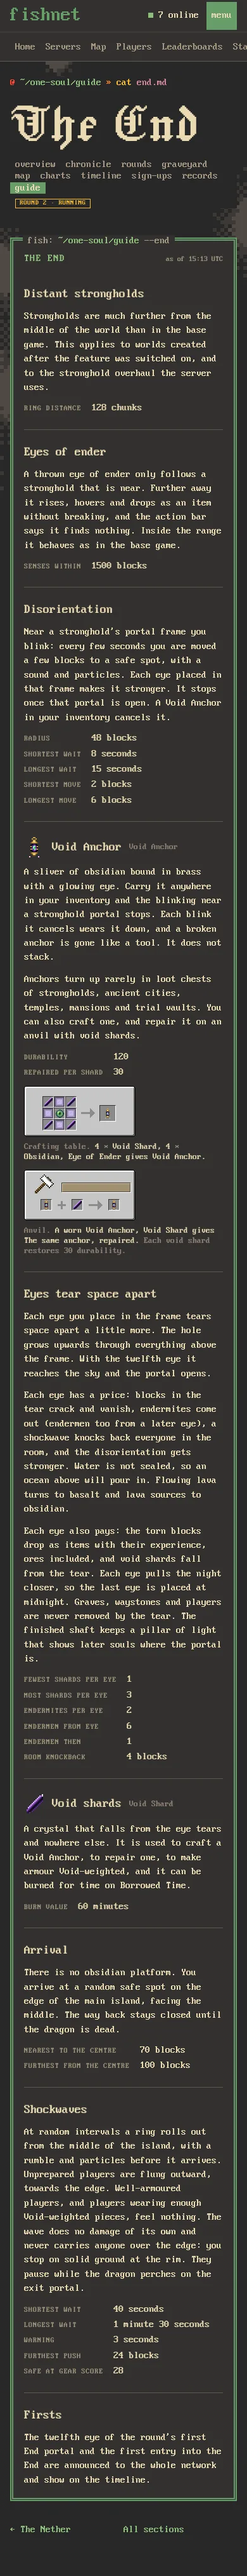
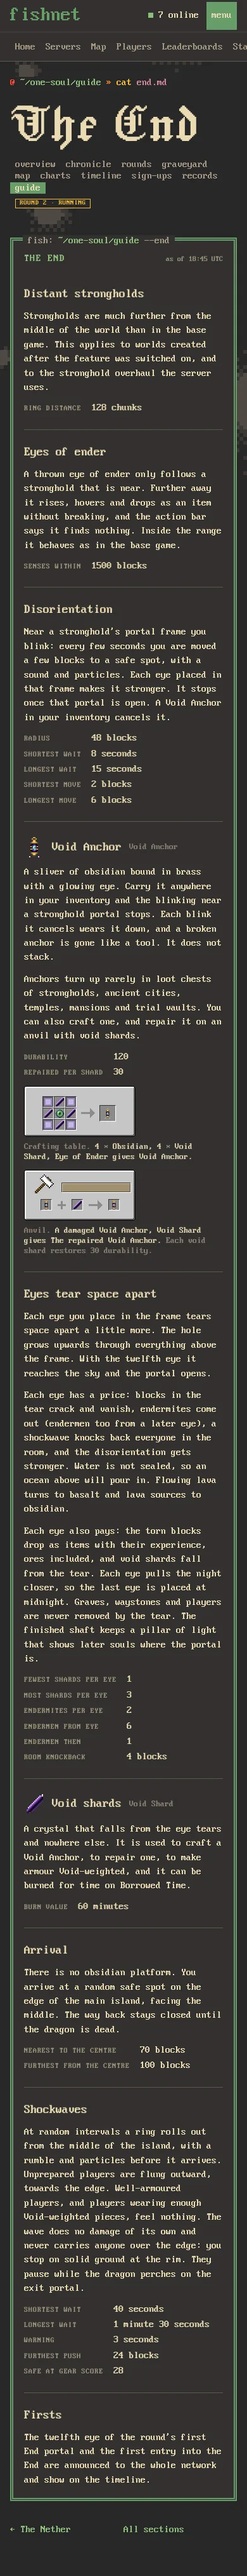
TH-30 review: the mock's Void Anchor recipe and recipe wording follow the shipped datapack and GuideRecipes
The mock drew the shards at the corners (the design sketch); the shipped
data/onesoul/recipe/void_anchor.json is OSO / SES / OSO, and the mod's repair
and void-weighted recipes use their own wording and a diamond chestplate.
Tests, e2e expectation and the guide screenshots follow.

Claude-Session: https://claude.ai/code/session_01Vkbqox4aqtTwF8dPwHYzXU

diff --git a/src/lib/server/onesoul/mock/guide.ts b/src/lib/server/onesoul/mock/guide.ts
@@ -134,12 +134,16 @@ const NAMES: Record<string, string> = {
   "onesoul:gravestone": "Gravestone",
   "minecraft:obsidian": "Obsidian",
   "minecraft:ender_eye": "Eye of Ender",
-  "minecraft:iron_chestplate": "Iron Chestplate"
+  "minecraft:diamond_chestplate": "Diamond Chestplate"
 };
 
 const R = (slot: number, item: string, count = 1, name: string | null = null) => ({ slot, item, count, name });
 
-/** The recipes the mod reads from the server: the Void Anchor's (design §6.2) and the Void-weighted mark's (§6.4). */
+/**
+ * The recipes the mod describes (cakeutils GuideRecipes): the Void Anchor's is read from its datapack file
+ * (`data/onesoul/recipe/void_anchor.json`, pattern OSO / SES / OSO), the repair and the Void-weighted mark's are
+ * described in code with the wording below.
+ */
 export function recipes(shards = Number(DEFAULTS["thresholds.end.void-weighted.shards"])): GuideRecipe[] {
   const S = "onesoul:void_shard";
   const O = "minecraft:obsidian";
@@ -148,7 +152,7 @@ export function recipes(shards = Number(DEFAULTS["thresholds.end.void-weighted.s
       id: "void-anchor",
       type: "crafting",
       shapeless: false,
-      slots: [R(0, S), R(1, O), R(2, S), R(3, O), R(4, "minecraft:ender_eye"), R(5, O), R(6, S), R(7, O), R(8, S)],
+      slots: [R(0, O), R(1, S), R(2, O), R(3, S), R(4, "minecraft:ender_eye"), R(5, S), R(6, O), R(7, S), R(8, O)],
       result: { item: "onesoul:void_anchor", count: 1, name: null },
       note: null
     },
@@ -156,17 +160,17 @@ export function recipes(shards = Number(DEFAULTS["thresholds.end.void-weighted.s
       id: "void-anchor-repair",
       type: "anvil",
       shapeless: false,
-      slots: [R(0, "onesoul:void_anchor", 1, "A worn Void Anchor"), R(1, S, 1)],
-      result: { item: "onesoul:void_anchor", count: 1, name: "The same anchor, repaired" },
+      slots: [R(0, "onesoul:void_anchor", 1, "A damaged Void Anchor"), R(1, S, 1)],
+      result: { item: "onesoul:void_anchor", count: 1, name: "The repaired Void Anchor" },
       note: "Each void shard restores {thresholds.end.anchor.repair-per-shard} durability."
     },
     {
       id: "void-weighted",
       type: "anvil",
       shapeless: false,
-      slots: [R(0, "minecraft:iron_chestplate", 1, "Any armour piece"), R(1, S, shards)],
-      result: { item: "minecraft:iron_chestplate", count: 1, name: "The same piece, Void-weighted" },
-      note: "Works with any trim and with the Mark of Love."
+      slots: [R(0, "minecraft:diamond_chestplate", 1, "Any armour piece"), R(1, S, shards)],
+      result: { item: "minecraft:diamond_chestplate", count: 1, name: "The same piece, void-weighted" },
+      note: null
     }
   ];
 }

diff --git a/tests/onesoul-guide.test.ts b/tests/onesoul-guide.test.ts
@@ -97,7 +97,7 @@ describe("sections, names and recipes in words", () => {
   test("the Void Anchor recipe in words", () => {
     const g = mockGuide();
     const r = g.recipes.find((x) => x.id === "void-anchor")!;
-    expect(recipeInWords(r, itemNames(g))).toBe("4 × Void Shard, 4 × Obsidian, Eye of Ender");
+    expect(recipeInWords(r, itemNames(g))).toBe("4 × Obsidian, 4 × Void Shard, Eye of Ender");
   });
   test("slots come in slot order, one per slot", () => {
     const r = { id: "r", type: "crafting", shapeless: false, slots: [{ slot: 2, item: "a:c", count: 1, name: null }, { slot: 0, item: "a:a", count: 1, name: null }, { slot: 0, item: "a:dup", count: 1, name: null }], result: { item: "a:r", count: 1, name: null }, note: null };

diff --git a/tests/e2e/checks.ts b/tests/e2e/checks.ts
@@ -517,7 +517,7 @@ export const CHECKS: Check[] = [
           const f = await ctx.get(a);
           expect(f.status === 200 && (f.headers.get("content-type") ?? "").startsWith("image/png"), `${a} answered ${f.status}`);
         }
-        expect(/aria-label="Crafting table: 4 × Void Shard, 4 × Obsidian, Eye of Ender gives Void Anchor"/.test(text), "the Void Anchor recipe is not described for a screen reader");
+        expect(/aria-label="Crafting table: 4 × Obsidian, 4 × Void Shard, Eye of Ender gives Void Anchor"/.test(text), "the Void Anchor recipe is not described for a screen reader");
       }
       return `${sections.length} sections, ${entries} entries`;
     }
